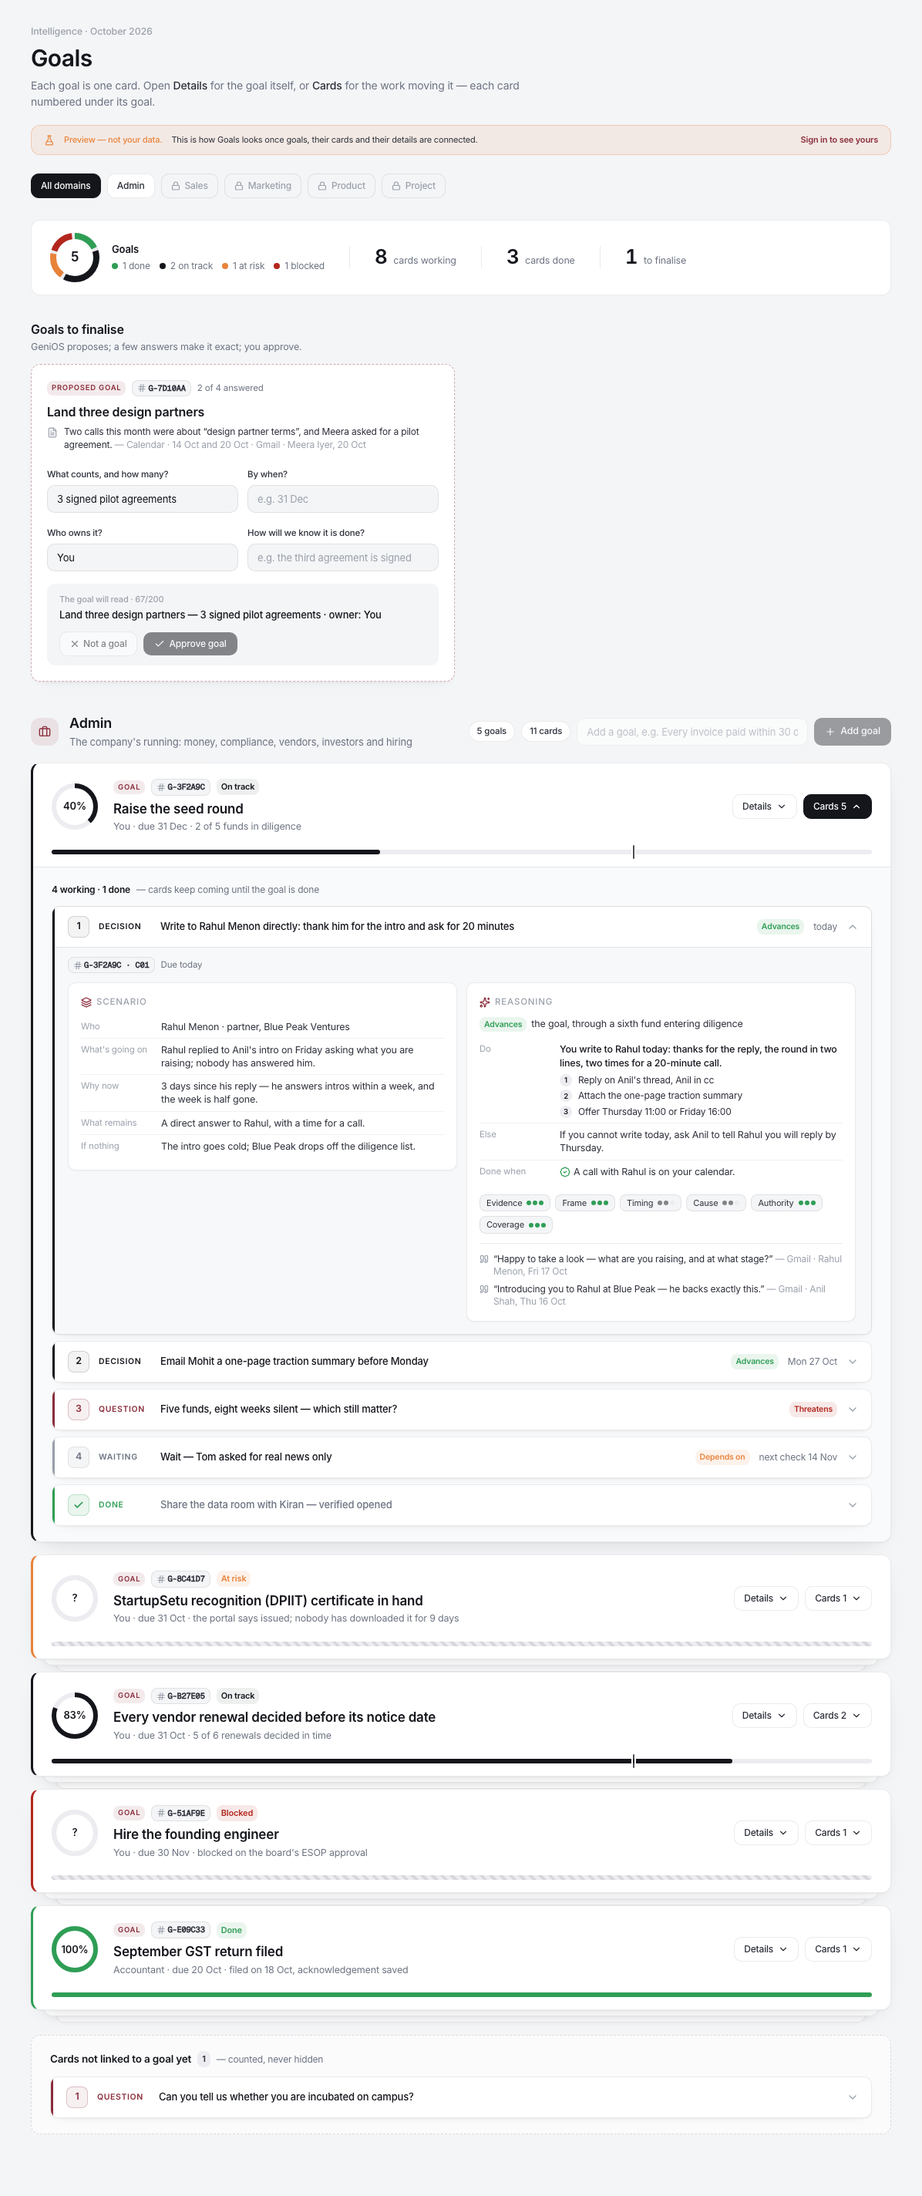
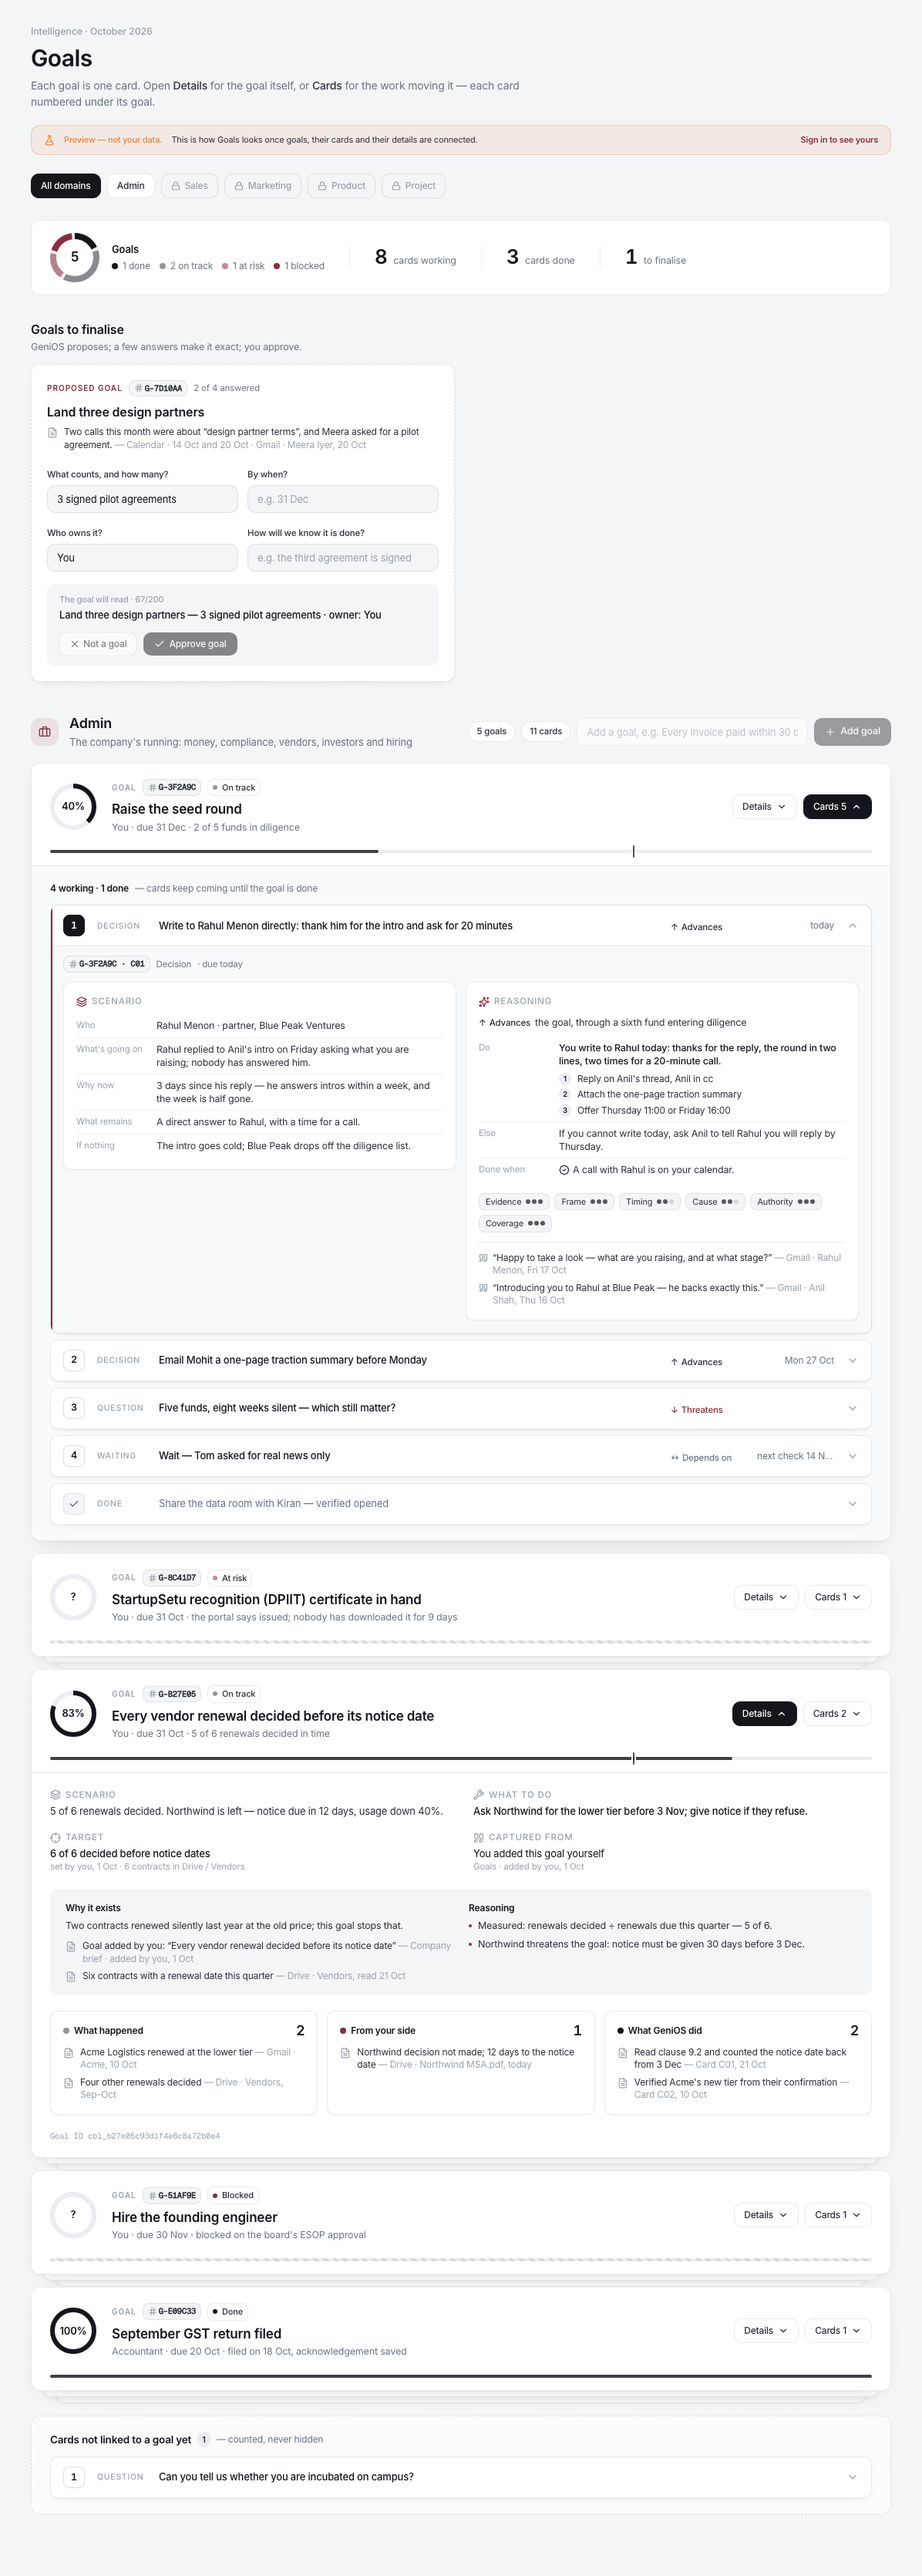
GeniOS-010: Goals in the theme's quiet palette — colour rules, screenshot, log

diff --git a/speedrun008/GeniOS-010/03-GOALS/01-GOALS-PAGE.md b/speedrun008/GeniOS-010/03-GOALS/01-GOALS-PAGE.md
@@ -77,9 +77,15 @@
 
 - **Cards are a vertical list.** A click opens that card in place, and the others stay closed: one open at a time.
   - Each row shows: a lane-coloured left strip, a number badge (✓ when done), the lane, the headline, the relation and the due date.
-- **The dashboard's own theme** (DESIGN.md): 12px cards (`rounded-xl`), 8–10px controls (`rounded-lg`/`md`), hairlines, `eyebrow` labels, and soft lane badges (not solid blocks). Actions use ink (Approve, Add goal, the open toggle); the burgundy accent marks the Goal tag and icons. The site's buttons, tabs and inputs are the same shapes as on the Cards and Moments pages.
+- **The dashboard's own theme** (DESIGN.md): 12px cards (`rounded-xl`), 8–10px controls (`rounded-lg`/`md`), hairlines and `eyebrow` labels. Actions use ink (Approve, Add goal, the open toggle). The site's buttons, tabs and inputs are the same shapes as on the Cards and Moments pages. Card rows are aligned columns: number · lane · title · relation · due.
 - **Shadows** (`L1` · `L2` · `L3`) still step down a level at a time, softer than before. A closed goal with cards shows a two-layer stack behind it.
-- **Lane colours:** decision → ink · question → accent · conflict → red · waiting → grey · done → green with a check.
+- **Colour, professional (`273b858`, Rohit: "rang-biranga" no more):**
+  - ink and its greys carry everything;
+  - the burgundy accent appears only where something needs you: at-risk and blocked dots, "↓ Threatens", "From your side", and the thin line on an open card;
+  - status is a small dot and a word;
+  - every goal's ring and bar are ink;
+  - lanes are a quiet uppercase word;
+  - done cards show a grey check.
 - **Short text:** one line per field. Confidence is a row of chips (word + dots, the reason on hover).
 - In the preview, goal 1's cards open with card 1 open. Every other goal starts closed.
 - A "Proposed goal" card is dashed and accent-tagged, so a goal waiting for approval never reads as a live one.

diff --git a/speedrun008/GeniOS-010/LOG.md b/speedrun008/GeniOS-010/LOG.md
@@ -27,4 +27,5 @@
 | 22 Oct | Rohit: show a dummy of Goals with goals, cards and details connected, to improve it before moving on to cards, screen intelligence and the rest; remove "See it with sample numbers". The link is removed from Home and Goals. The preview at `?demo=1` gets its own banner and opens its first goal and card. Screenshots added. | dashboard `9322382` |
 | 22 Oct | Rohit, on the preview: tell goals and cards apart (borders, layers, shadows that fade with depth); write less, show more; open a goal and only the goal opens, open its cards and only the cards open, numbered 1 2 3 …. Built three levels with two toggles (Details / Cards N), numbered lane-coloured tiles opening one card at a time, a stack behind closed goals, an overview on one strip, and shorter goal texts. | dashboard `cb962fa` |
 | 22 Oct | Rohit: match the website theme; make the cards vertical, so a click opens that card and the rest stay closed. Done: a numbered vertical list opening in place, and the page in the dashboard's design (12px cards, 8–10px controls, eyebrow labels, soft lane badges, ink actions, accent Goal tag, softer layered shadows). | dashboard `6850f07` |
+| 22 Oct | Rohit: the goals look too colourful; make them professional and in the theme. Ink and greys for everything; burgundy only for what needs you (at risk, blocked, threatens, your side, the open card). Status as a dot and a word, no coloured edges, ink rings and bars, card rows in aligned columns. | dashboard `273b858` |
 
